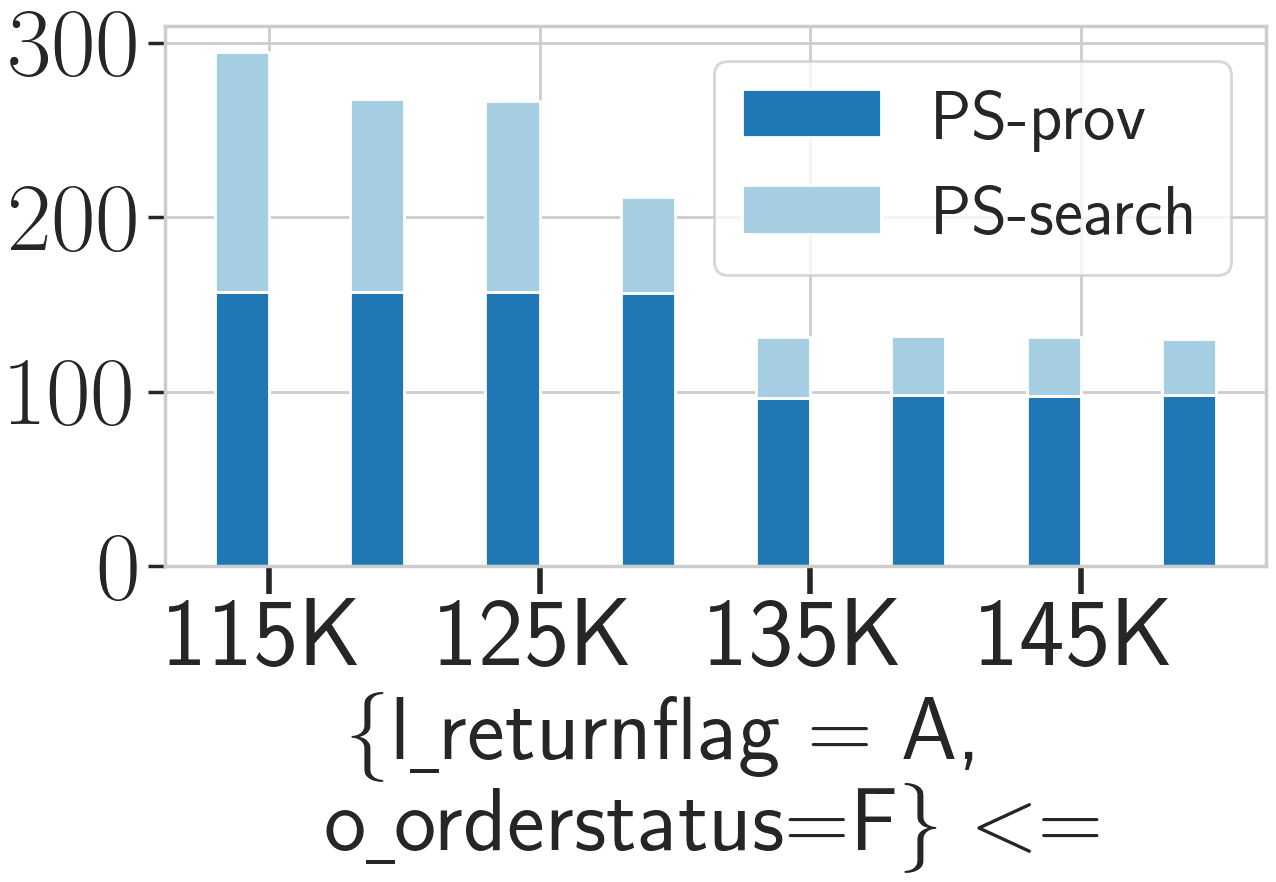
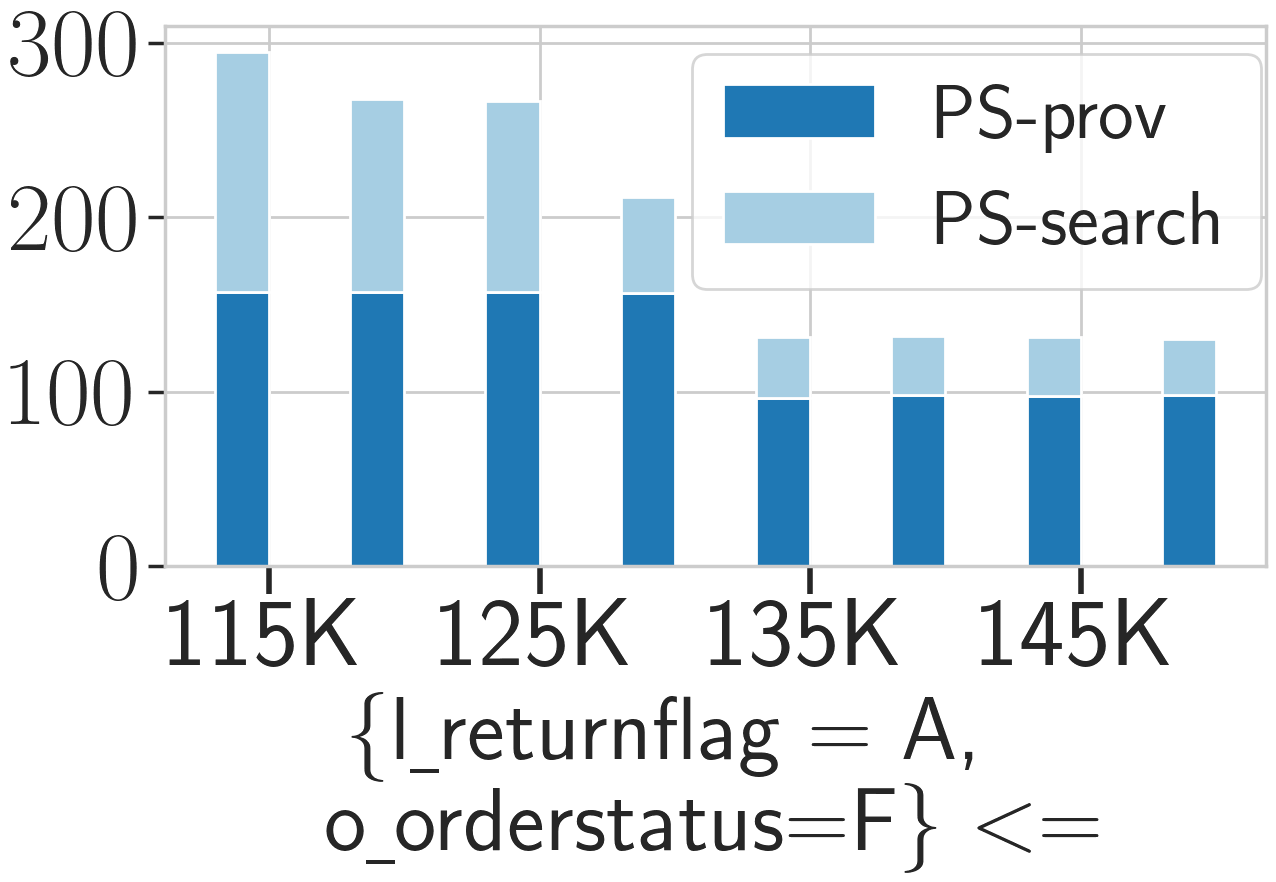
larger legend font size

Changed region(s): [[0.5502, 0.0612, 1.0, 0.3061], [0.5502, 0.3061, 0.9781, 0.3367], [0.5502, 0.2143, 0.703, 0.2755]]

diff --git a/Experiment/TPCH/10G/constraint_change/q12_contract/fig.py b/Experiment/TPCH/10G/constraint_change/q12_contract/fig.py
@@ -85,8 +85,8 @@ def run(query, size, constraint):
     plt.yticks(fontsize=70, weight='bold')
 
     plt.xlabel(r'\{l\underline{ }returnflag = A, \\o\underline{ }orderstatus=F\} $<=$', fontsize=65)
-    # plt.legend(loc='upper right', bbox_to_anchor=(0.98, 0.55))
-    plt.legend(loc="best", fontsize=50)
+    plt.legend(loc='upper right', bbox_to_anchor=(1.03, 1.02), fontsize=55)
+    # plt.legend(loc="best", fontsize=55)
     plt.tight_layout()
     fig_path = "constraint_change_q" + str(query) + "_" + size + "_" + constraint + ".png"
 
